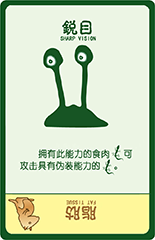
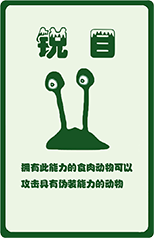
- new card

diff --git a/js/main.js b/js/main.js
@@ -24,6 +24,10 @@ var main = function(){
     var canvas = $('.game-canvas')[0];
     var context = canvas.getContext('2d');
     
+    main.ws = new WebSocket('ws://www.ltfnjust.club:2333');
+    main.ws.onopen = function(){
+        console.log('Connect OK!');
+    };
     /*cardImage[0] = Loader.loadImage('image/paibei.jpg');
     cardImage[0].onload = function(){
         //alert(5);
@@ -37,7 +41,7 @@ var main = function(){
     game();
     for (var i = 0; i < CardDeck.nameList.length; i++)
     {
-        CardDeck.image[i] = Loader.loadImage('image/' + CardDeck.nameList[i] + '.jpg');
+        CardDeck.image[i] = Loader.loadImage('image/' + CardDeck.nameList[i] + '.png');
         CardDeck.image[i].onload = function(){
             Loader.itemLoaded();
         };
@@ -97,7 +101,7 @@ var main = function(){
             //drag.animate();
             //main.foodContext.drawImage(FoodList.image[0], 0, 0, 90, 90);
             //DrawFood(0, 0);
-            
+            main.context.drawImage(AnimalList.image[0], 0, 0, 90, 90);
             game.set();
         };
     }

diff --git a/js/card.js b/js/card.js
@@ -1,9 +1,18 @@
 var CardDeck = function(){
-    CardDeck.nameList = new Array('paibei', 'hide', 'eye', 'water', 'run');
+    CardDeck.nameList = new Array('paibei', 'meat', 'hide', 'eye', 'water', 'run', 'home', 'poison', 'fat');
     //CardDeck.nameList2 = new Array('paibei2', 'shuisheng2');
     CardDeck.image = new Array(20);  //原图
     CardDeck.image2 = new Array(20);  //缩略图，154 * 240
-    CardDeck.srcDeck = new Array(1, 1, 1, 1, 1, 2, 2, 2, 2, 2, 3, 3, 3, 3, 3);
+    CardDeck.srcDeck = new Array(
+        1, 1, 1, 1, 1, 1, 1, 1, 1, 1, 1, 1, 1, 1, 1, 1,
+        2, 2, 2, 2, 2, 
+        3, 3, 3, 3, 3, 
+        4, 4, 4, 4, 4, 4, 
+        5, 5, 5, 5, 
+        6, 6, 6, 6,
+        7, 7, 7, 7,
+        8, 8, 8, 8
+    );
     //CardDeck.abilityList = new Array('');
     //0: posionous
     //for (var i = 0; i < CardDeck.srcDeck.length; i++)
